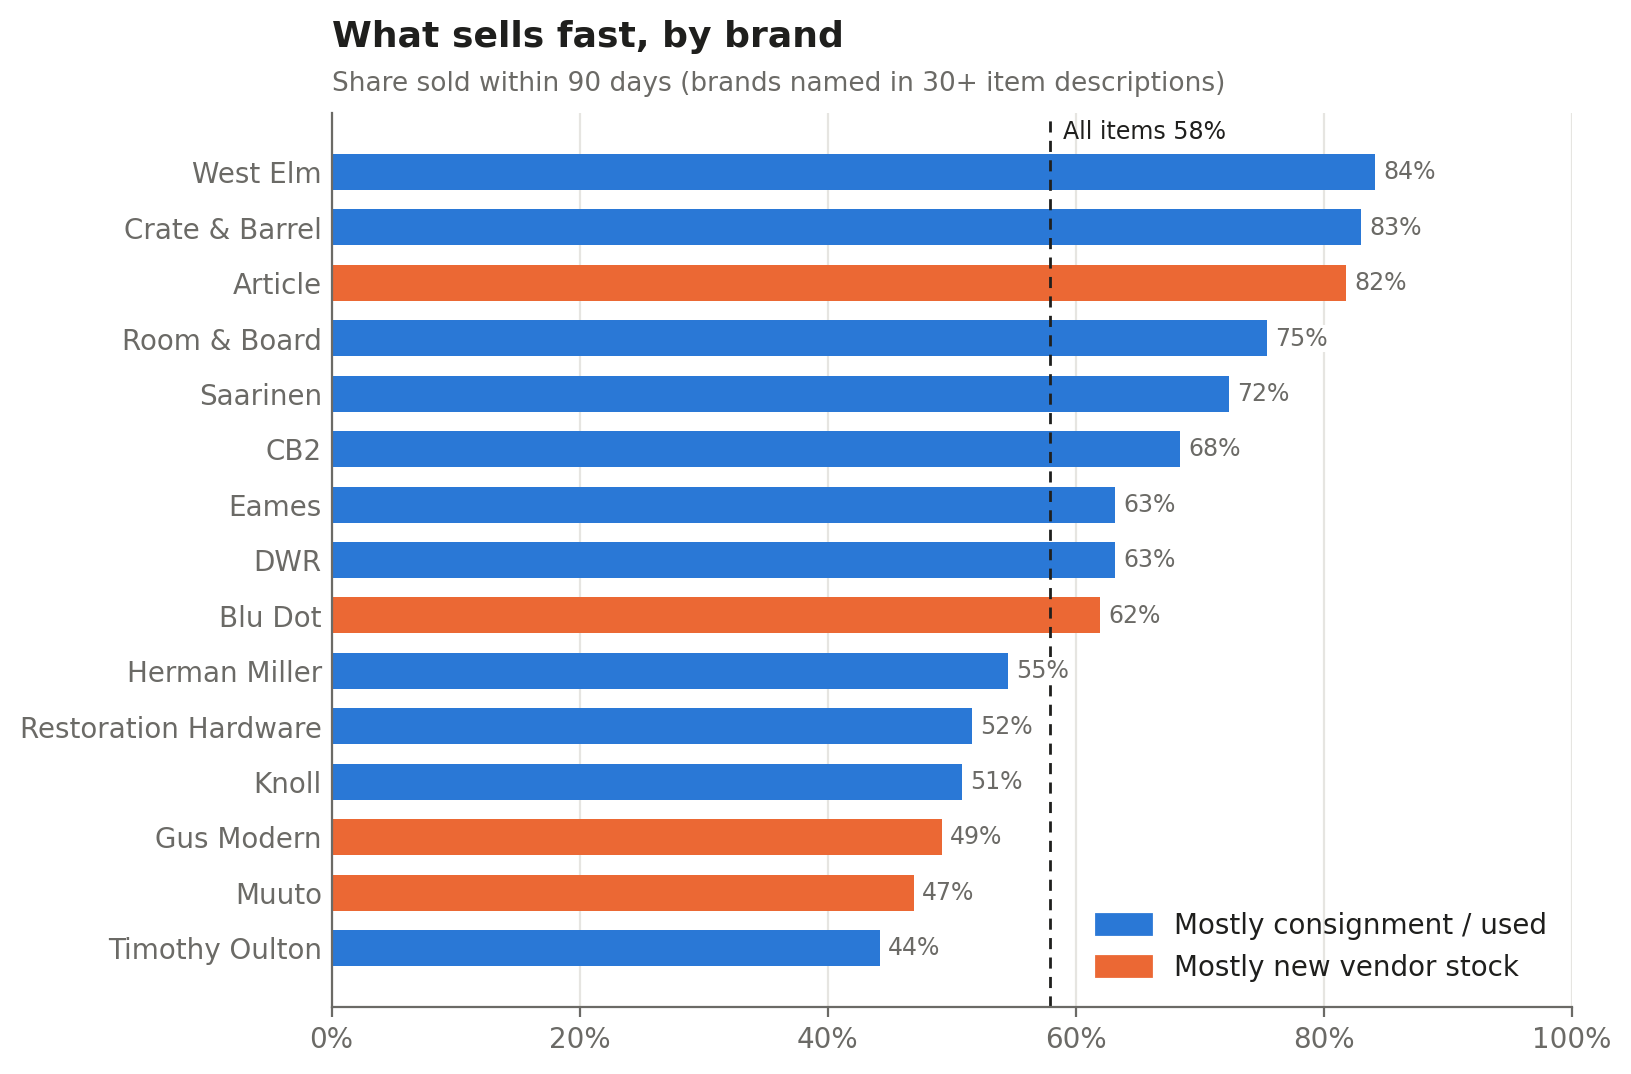
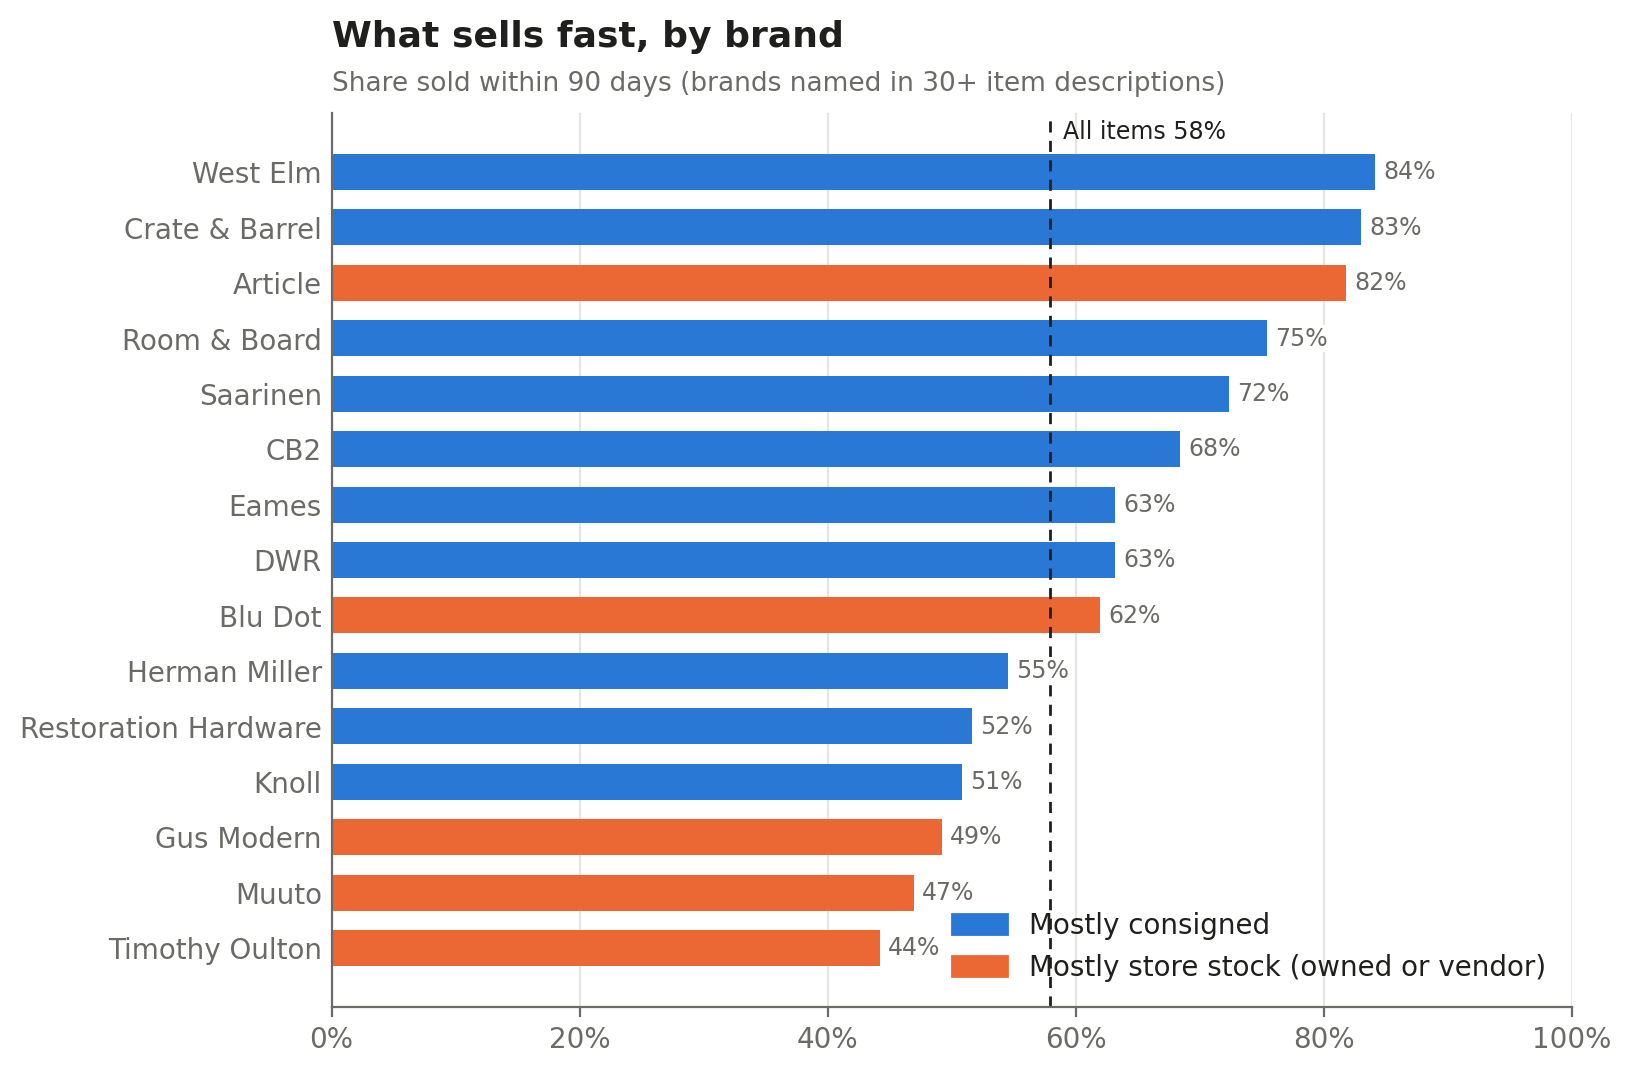
Relabel owner accounts, fix brand chart, update README

Changed region(s): [[0.5825, 0.8296, 0.9503, 0.9218], [0.1839, 0.8603, 0.5518, 0.9218]]

diff --git a/src/plots.py b/src/plots.py
@@ -100,8 +100,8 @@ def ranked_bars(t, name_col, fname, main, sub, baseline, color_by_new=False):
     ax.tick_params(axis="y", length=0)
     if color_by_new:
         from matplotlib.patches import Patch
-        ax.legend(handles=[Patch(color=BLUE, label="Mostly consignment / used"),
-                           Patch(color=ORANGE, label="Mostly new vendor stock")],
+        ax.legend(handles=[Patch(color=BLUE, label="Mostly consigned"),
+                           Patch(color=ORANGE, label="Mostly store stock (owned or vendor)")],
                   frameon=False, loc="lower right")
     title(ax, main, sub)
     fig.savefig(f"{OUT}/{fname}"); plt.close(fig)

diff --git a/src/breakdown.py b/src/breakdown.py
@@ -34,6 +34,7 @@ def summarize(df):
         "avg_pct_of_tag": sold.realized.clip(0, 1.2).mean() * 100,
         "median_tag": df.price.median(),
         "pct_consignment": (df.source == "Consignment").mean() * 100,
+        "pct_vendor": (df.source == "New (vendor)").mean() * 100,
     })
 
 

diff --git a/README.md b/README.md
@@ -2,18 +2,18 @@
 
 ## Overview
 
-I wanted to know what actually sells at the store I work at, and how long it takes. The short answer: an item's best chance of selling is its first month. Almost 4 in 10 pieces sell in 30 days. After six months on the floor the odds drop to about 4% a month, and the longer something sits, the less of its tag it brings in.
+I wanted to know what sells at the store I work at, and how long that usually takes. In short, an item's best chance of selling is its first month. Almost 4 in 10 pieces sell in 30 days. After six months on the floor the odds drop to about 4% a month, and the longer something sits, the less of its tag it brings in.
 
-The store is a furniture and antiques consignment shop where I run e-commerce and operations, so I see what sits on the floor and what comes in every day. For this project I pulled 17 years of point-of-sale data out of Liberty Consignment POS (85,436 rows, 2009 to September 2026) and tried to answer two questions:
+The store is a furniture and antiques consignment shop where I run e-commerce and operations, so I see what sits on the floor and what comes in every day. For this project I pulled 17 years of point-of-sale data out of Liberty Consignment POS (85,436 rows, 2009 to September 2026) and tried to answer two big questions:
 
 1. How fast do things sell, and what does waiting cost in price?
-2. Can we predict sale price and time to sell when an item comes in? (next project)
+2. Can we predict sale price and time to sell when an item comes in? (the next part of this project)
 
 I cleaned the data in Python, checked my main numbers in SQL, made the charts in matplotlib, and built a simple dashboard so the owner could see the results.
 
 ## Data and method
 
-Most of the numbers below use the 7,489 items that came in from January 2021 on and have had at least a year to sell. I started at 2021 so the results reflect how the store runs now, not how it ran in 2010.
+Most of the numbers below use the 7,489 items that came in from January 2021 on and have had at least a year to sell. I started at 2021 so the results reflect how the store runs now, not how it ran before covid.
 
 Getting there took more cleaning than I expected.
 
@@ -25,7 +25,7 @@ To check my work, I loaded the clean data into SQLite and rewrote the main count
 
 One thing I had to be careful about: the raw export has consignor names, and some item descriptions have customer phone numbers and emails in them. So consignor IDs are hashed, names are dropped, and none of the row-level data is public. The repo only has code and charts.
 
-Tools: Python (pandas, matplotlib) and SQL (SQLite).
+Tools: Python (pandas, matplotlib) and SQL (SQLite). I used Claude to write most of the Python. The questions, the cleaning decisions and this writeup are mine.
 
 ## Finding 1: the first month matters most
 
@@ -55,11 +55,11 @@ Big furniture sells fastest and art sells slowest. Sectionals were the top categ
 
 ![What sells fast, by category](outputs/figures/4_by_category.png)
 
-Fine art, framed art and misc. art were all under 40% within 90 days. Rugs, ottomans, ceramics and lighting were under 50% too. Most of the art is consigned (79% to 98%), so it's mainly consignors' pieces sitting, not the store's. That lines up with what the owner already does: he rarely buys art for the store because it doesn't move on the floor.
+Fine art, framed art and misc. art were all under 40% within 90 days. Rugs, ottomans, ceramics and lighting were under 50% too. Most of the art is consigned (64% to 89%), so it's mainly consignors' pieces sitting, not the store's. That lines up with what the owner already does: he rarely buys art for the store because it doesn't move on the floor.
 
 Price mattered less than I expected. Across most price ranges, items sell at about the same rate (54% to 61% within 90 days). Only the most expensive pieces are slower: 27% sell in the first 30 days, compared with about 40% for everything else. Cheaper items also hold their tag better: the cheapest pieces sell for 94% of tag on average, the most expensive for 85%.
 
-For brands, the mainstream contemporary names sell fastest: West Elm 84%, Crate & Barrel 83%, Article 82% and Room & Board 75% within 90 days. Timothy Oulton, Muuto, Gus Modern, Knoll and Restoration Hardware were all around 50% or lower. Article, Blu Dot, Gus and Muuto are mostly new vendor stock, not consignment (orange in the chart).
+For brands, the mainstream contemporary names sell fastest: West Elm 84%, Crate & Barrel 83%, Article 82% and Room & Board 75% within 90 days. Timothy Oulton, Muuto, Gus Modern, Knoll and Restoration Hardware were all around 50% or lower. Article, Blu Dot, Muuto and Timothy Oulton are mostly the store's own stock, and Gus is mostly new vendor stock. All five are orange in the chart.
 
 ![What sells fast, by brand](outputs/figures/5_by_brand.png)
 
@@ -75,7 +75,7 @@ Markdowns sometimes change the tag. When a tag price gets lowered in the system,
 
 Some pieces are entered at the register. This is often because the item sold so soon after it came in that there wasn't time to print a tag. For those I don't know how long they were really on the floor, so anything sold within 15 minutes of being entered is left out of the timing numbers.
 
-Some bulk buys (multi-quantity entries) are excluded, and pieces that were never closed out in the system count as unsold, which probably makes the sell rates a little low. A few vendor and store accounts are also labeled as consignors in the system. I fixed the ones I could identify, but since a few could still be wrong, I didn't compare consigned items to store-owned ones.
+Some bulk buys (multi-quantity entries) are excluded, and pieces that were never closed out in the system count as unsold, which probably makes the sell rates a little low. A few vendor and store accounts are also labeled as consignors in the system, and the owner enters some of his own stock under other account numbers. I relabeled the main ones with his help, which covers about 18,000 of his roughly 20,000 items. Since the split still isn't exact, I didn't compare consigned items to store-owned ones.
 
 ## What happened next
 
